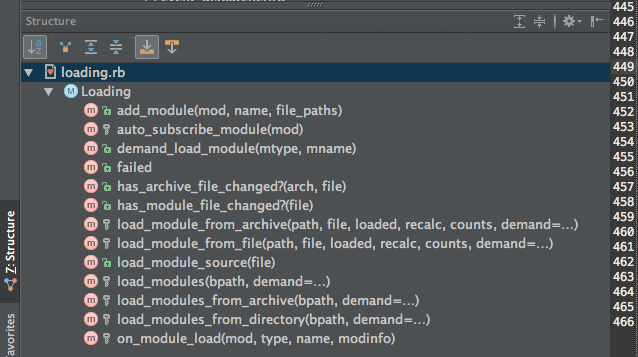
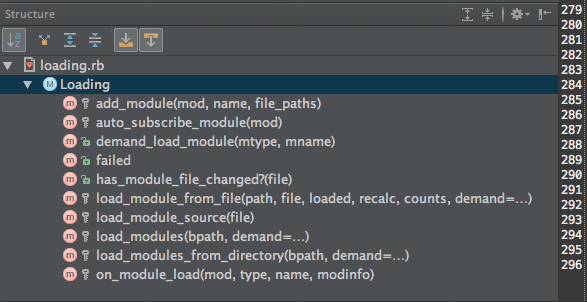
Remove mentions of archive/fastlib
MSP-12044

Removed as fastlib was a dead end and just complicates the discussion.

diff --git a/index.html b/index.html
@@ -1859,108 +1859,91 @@ end
                     <h2>Breaking up into Classes</h2>
                     <ul>
                         <li>Common methods for base class</li>
-                        <li>2 or more set of methods that follow pattern for subclasses</li>
+                        <li>Specialized of methods for subclasses</li>
                     </ul>
                 </section>
                 <section>
                     <img class="stretch" src="images/msf-module-manager-loading-structure.png">
                     <ul>
-                        <li>Too long (466 lines)</li>
-                        <li>Too many methods (13)</li>
+                        <li>Too long (296 lines)</li>
+                        <li>Too many methods (10)</li>
                     </ul>
-                </section>
-                <section>
-                    <img class="stretch" src="images/msf-module-manager-loading-structure.png" style="float: left; max-width: 50%">
-                    <div style="float: right; max-width: 50%">
-                        <h1>Horizontal integration</h1>
-                        <ul>
-                            <li>file_changed? (
-                                <code>#has_archive_file_changed?</code>,
-                                <code>#has_module_file_changed?</code>)
-                            </li>
-                            <li>load_module (
-                                <code>#add_module</code>,
-                                <code>#auto_subscribe_module</code>,
-                                <code>#demand_load_module</code>,
-                                <code>#failed</code>,
-                                <code>#load_module_from_archive</code>,
-                                <code>#load_module_from_file</code>,
-                                <code>#load_module_source</code>,
-                                <code>#on_module_load</code>)
-                            </li>
-                            <li>load_modules (
-                                <code>#load_modules</code>,
-                                <code>#load_modules_from_archive</code>,
-                                <code>#load_modules_from_directory</code>)
-                            </li>
-                        </ul>
-                    </div>
                     <aside class="notes">
-                        By aligning the methods in each category, and using the naming patterns from the horizontal
-                        integration we can see there is a shared interface that can be used in a class hierarchy.
+                        You don't want files that are too long because if a method is off the screen the developer is
+                        likely to forget its there and not take it into account when modifying the code.  Having more
+                        methods increases the the amount of testing required because the interaction between each
+                        subset of methods has to be checked potentially.  In general, you want your files to fit on
+                        screen and to limit to less than 7 methods due to studies where most peoples working memory
+                        can only hold 7 chunks at a time.
                     </aside>
                 </section>
                 <section>
-                    <img class="stretch" src="images/msf-module-manager-loading-structure.png" style="float: left; max-width: 50%">
-                    <div style="float: right; max-width: 50%">
-                        <h1>Vertical integration</h1>
-                        <ul>
-                            <li>archive (
-                                <code>#has_archive_file_changed?</code>,
-                                <code>#load_module_from_archive</code>,
-                                <code>#load_modules_from_archive</code>)
-                            </li>
-                            <li>common (
-                                <code>#add_module</code>,
-                                <code>#auto_subscribe_module</code>,
-                                <code>#demand_load_module</code>,
-                                <code>#failed</code>,
-                                <code>#load_modules</code>,
-                                <code>#on_module_load</code>)
-                            </li>
-                            <li>directory (
-                                <code>#has_module_file_changed?</code>,
-                                <code>#load_module_from_file</code>,
-                                <code>#load_module_source</code>,
-                                <code>#load_modules_from_directory</code>)
-                            </li>
-                        </ul>
-                    </div>
-                </section>
-                <section>
+                    <img class="stretch" src="images/msf-module-manager-loading-structure.png">
                     <table>
+                        <thead>
+                        <tr>
+                            <th></th>
+                            <th>Internal</th>
+                            <th>External</th>
+                        </tr>
+                        </thead>
                         <tbody>
                         <tr>
-                            <th colspan="2" rowspan="2"></th>
-                            <th colspan="2">Category</th>
+                            <td rowspan="8">Single</td>
+                            <td>add_module</td>
+                            <td></td>
                         </tr>
                         <tr>
-                            <th>archive</th>
-                            <th>directory</th>
+                            <td>autosubscribe_module</td>
+                            <td></td>
                         </tr>
                         <tr>
-                            <th rowspan="4">Method</th>
-                            <th><code>#file_changed?</code></th>
-                            <td><code>#has_archive_file_changed?</code></td>
-                            <td><code>#has_module_file_changed?</code></td>
+                            <td>demand_load_module</td>
+                            <td></td>
                         </tr>
                         <tr>
-                            <th><code>#load_module</code></th>
-                            <td><code>#load_module_from_archive</code></td>
-                            <td><code>#load_module_from_file</code></td>
+                            <td>failed</td>
+                            <td></td>
                         </tr>
                         <tr>
-                            <th><code>#load_source</code></th>
-                            <td><code>Fastlib.load</code></td>
-                            <td><code>#load_module_source</code></td>
+                            <td></td>
+                            <td>has_module_file_changed?</td>
                         </tr>
                         <tr>
-                            <th><code>#load_modules</code></th>
-                            <td><code>#load_modules_from_archive</code></td>
-                            <td><code>#load_modules_from_directory</code></td>
+                            <td></td>
+                            <td>load_module_from_file</td>
+                        </tr>
+                        <tr>
+                            <td></td>
+                            <td>load_module_source</td>
+                        </tr>
+                        <tr>
+                            <td>on_module_load</td>
+                            <td></td>
+                        </tr>
+                        <tr>
+                            <td>Multiple</td>
+                            <td>load_modules</td>
+                            <td>load_modules_from_directory</td>
                         </tr>
                         </tbody>
                     </table>
+                    <aside class="notes">
+                        <p>
+                            Grouping of scope lets us separating collection and enumerable behaviors from single element
+                            behaviors.  The collection behavior is important when loading all Metasploit Modules on startup
+                            while the single element behavior will be used by for each module in the collection and when
+                            reloading
+                            individual Metasploit Modules.
+                        </p>
+                        <p>
+                            If instead of group by size of what's being loaded, we can group by whether the method is
+                            dealing with the internal representation of a Metasploit Module or the external presentation
+                            of Metasploit Module.  Separating the external representation can free the code the internal
+                            methods from knowing how modules are laid out on disk, which is good in case it has to
+                            differ on embedded devices.
+                        </p>
+                    </aside>
                 </section>
             </section>
             <section class="stack">
@@ -1992,9 +1975,6 @@ end
                     <ul>
                         <li>
                             Calls <code>#load_module_from_file</code> in directory category, so extract to <code>Msf::Modules::Loader::Directory</code>
-                            <ul>
-                                <li><strong>BUG: This method is just missing handling for <code>#load_module_from_archive</code></strong></li>
-                            </ul>
                         </li>
                     </ul>
                     <p>Check Usages to confirm category</p>
@@ -2025,10 +2005,9 @@ end
                     <img class="stretch" src="images/msf-module-manager-loading-load-modules.png">
                     <ul>
                         <li>
-                            Code forks to archive (<code>#load_modules_from_archive</code>) and directory (<code>#load_modules_from_directory</code>)
+                            Code translates internal representation API to external presentation handler.
                             <ul>
                                 <li>Rewrite to call loaders</li>
-                                <li>Rewrite to eliminate <code>Msf::Modules::Loader::Archive</code> internal <code>.fastlib</code> extension</li>
                             </ul>
                         </li>
                     </ul>
@@ -2056,44 +2035,76 @@ end
             </section>
             <section class="stack">
                 <section>
-                    <h1>Extracting superclass from subclasses</h1>
-                    <ol>
-                        <li>Write first subclass</li>
-                        <li>Copy first subclass to second subclass</li>
-                        <li>Change code for second subclass differences</li>
-                        <li>Extract anything that's still duplicated between subclasses to superclass</li>
-                    </ol>
-                </section>
-                <section>
-                    <h1>Extracting superclass from already written classes</h1>
+                    <h1>Extracting external dependencies from internal representation</h1>
                     <ol>
                         <li>Examine each method</li>
-                        <li>Look for duplicate lines</li>
-                        <li>Refactor lines if necessary to produce duplication</li>
-                        <li>Extract prefix/suffix duplication to superclass method</li>
+                        <li>Look for lines that leak the external representation</li>
+                        <li>Extract prefix/suffix leaks to abstract methods that must be overridden</li>
                         <li>Extract duplication around subclass behavior to superclass helper method that takes a block</li>
                     </ol>
-                    <aside class="notes">
-                        Those steps are great for new code that we think will have a superclass, but what if presented with pre-existing code where a superclass should be extracted?
-                    </aside>
-                </section>
-                <section>
-                    <img class="stretch" src="images/msf-module-manager-loading-load-modules-from-archive-vs-load-modules-from-directory.png">
                 </section>
                 <section>
                     <img class="stretch" src="images/msf-modules-loader-base-load-modules.png">
                     <aside class="notes">
-                        <p>I moved everything before the call to <code>#load_module_from_archive</code> or <code>#load_module_from_file</code> out into <code>#each_module_reference_name</code>, which can deal with the path filters.  This allows the common features to be shared.</p>
+                        I moved everything before the call to <code>#load_module_from_file</code> out into
+                        <code>#each_module_reference_name</code>, which can deal with the path filters, which are an
+                        external concern to be handled by.  This allows <code>load_module</code> to only handle the
+                        internal representation.  With the yield signature for <code>each_module_reference_name</code>
+                        the module could be coming from a filesystem, a zip, or a database.
                     </aside>
                 </section>
                 <section>
-                    <img class="stretch" src="images/msf-modules-loader-archive-vs-directory-each-module-reference-name.png">
+                    <pre class="stretch"><code>
+class Msf::Modules::Loader::Directory < Msf::Modules::Loader::Base
+  protected
+
+  # Yields the module_reference_name for each module file found under the directory path.
+  #
+  # @param [String] path The path to the directory.
+  # @yield (see Msf::Modules::Loader::Base#each_module_reference_name)
+  # @yieldparam [String] path The path to the directory.
+  # @yieldparam [String] type The type correlated with the directory under path.
+  # @yieldparam module_reference_name (see Msf::Modules::Loader::Base#each_module_reference_name)
+  # @return (see Msf::Modules::Loader::Base#each_module_reference_name)
+  def each_module_reference_name(path)
+    ::Dir.foreach(path) do |entry|
+      if entry.downcase == '.svn'
+        next
+      end
+
+      full_entry_path = ::File.join(path, entry)
+      type = entry.singularize
+
+      unless ::File.directory?(full_entry_path) and
+        module_manager.type_enabled? type
+        next
+      end
+
+      full_entry_pathname = Pathname.new(full_entry_path)
+
+      # Try to load modules from all the files in the supplied path
+      Rex::Find.find(full_entry_path) do |entry_descendant_path|
+        if module_path?(entry_descendant_path)
+          entry_descendant_pathname = Pathname.new(entry_descendant_path)
+          relative_entry_descendant_pathname = entry_descendant_pathname.relative_path_from(full_entry_pathname)
+          relative_entry_descendant_path = relative_entry_descendant_pathname.to_path
+
+          # The module_reference_name doesn't have a file extension
+          module_reference_name = module_reference_name_from_path(relative_entry_descendant_path)
+
+          yield path, type, module_reference_name
+        end
+      end
+    end
+  end
+end
+                    </code></pre>
                     <aside class="notes">
-                        Unfortunately, due to the slight difference between Fastlib’s paths and real filesystem paths,
-                        <code>Msf::Modules::Loader::Archive#each_module_reference_name</code> and
-                        <code>Msf::Modules::Loader::Directory#each_module_reference_name</code> are still very similar,
-                        but to pull out the commonalities would just make the code more confusing to read.  There is
-                        such a thing as too DRY code.
+                        You can see that method has to deal with the messy details of the external representation of
+                        the <code>modules</code> directory, such as ignored <code>.svn</code> directories and handling
+                        conversion from internal Metasploit Module types to the directory names for those Metasploit
+                        Module types.  Even here, though, we try to keep the method short and focused.  So this method
+                        calls out to <code>#module_path?</code> and <code>#module_reference_name_from_path</code>.
                     </aside>
                 </section>
                 <section>
@@ -2118,24 +2129,18 @@ end
                         <li>Worth making a method because...
                             <ul>
                                 <li>intention revealing name</li>
-                                <li>Eliminate duplicating cryptic gsub</li>
+                                <li>Hide cryptic gsub</li>
                             </ul>
                         </li>
                     </ul>
                 </section>
                 <section>
-                    <img class="stretch" src="images/msf-modules-loader-base-load-module.png">
-                    <aside class="notes">
-                        Jumping out of #each_module_reference_name into #load_modules, each yielded
-                        <code>[parent_path, type, module_reference_name]</code> is passed to <code>#load_module</code>
-                    </aside>
-                </section>
-                <section>
                     <h1><code>Msf::Modules::Loader::Base&#8203;#load_module</code></h1>
+                    <img class="stretch" src="images/msf-modules-loader-base-load-module.png">
                     <ul class="procon">
                         <li class="con">Still huge (~130 lines)</li>
                         <li class="pro">
-                            Commonality between archive and directory extracted to methods:
+                            Interface to external representation extract to methods:
                             <ul>
                                 <li><code>#module_path</code></li>
                                 <li><code>#read_module_content</code></li>
@@ -2143,17 +2148,46 @@ end
                             </ul>
                         </li>
                     </ul>
-                </section>
-                <section>
-                    <img class="stretch" src="images/msf-modules-loader-archive-vs-directory-module-path.png">
-                    <ul>
-                        <li>Path to <code>.fastlib</code> is normal, but separated from internal path by <code>::</code></li>
-                    </ul>
-                </section>
-                <section>
-                    <img class="stretch" src="images/msf-modules-loader-archive-vs-directory-read-module-content.png">
                     <aside class="notes">
-                        This method abstracts over the difference between reading from a .fastlib and a normal file.
+                        Jumping out of #each_module_reference_name into #load_modules, each yielded
+                        <code>[parent_path, type, module_reference_name]</code> is passed to <code>#load_module</code>
+                    </aside>
+                </section>
+                <section>
+                    <pre class="stretch"><code>
+# Returns the full path to the module file on disk.
+#
+# @param (See Msf::Modules::Loader::Base#module_path
+# @return [String] Path toe the module file on disk.
+def module_path(parent_path, type, module_reference_name)
+  file_name = module_reference_name + MODULE_EXTENSION
+  type_directory = DIRECTORY_BY_TYPE[type]
+  full_path = File.join(parent_path, type_directory, file_name)
+
+  full_path
+end
+                    </code></pre>
+                    <aside class="notes">
+                        This method is isolating from the internal presentation that externally Metasploit Modules have
+                        <code>.rb</code> extensions and that they are stored in directories with slightly different
+                        names from the <code>module_type</code>.
+                    </aside>
+                </section>
+                <section>
+                    <pre class="scretch"><code>
+# Load the module content from the on disk file.
+#
+# @param (see Msf::Modules::Loader::Base#read_module_content)
+# @return (see Msf::Modules::Loader::Base#read_module_content)
+def read_module_content(parent_path, type, module_reference_name)
+  full_path = module_path(parent_path, type, module_refrence_name)
+
+  File.read(full_path)
+end
+                    </code></pre>
+                    <aside class="notes">
+                        Although this method is just doing a <code>File.read</code>, it needs to be hidden behind a
+                        method so that the external presentation doesn't leak into <code>#load_module</code>
                     </aside>
                 </section>
                 <section>
